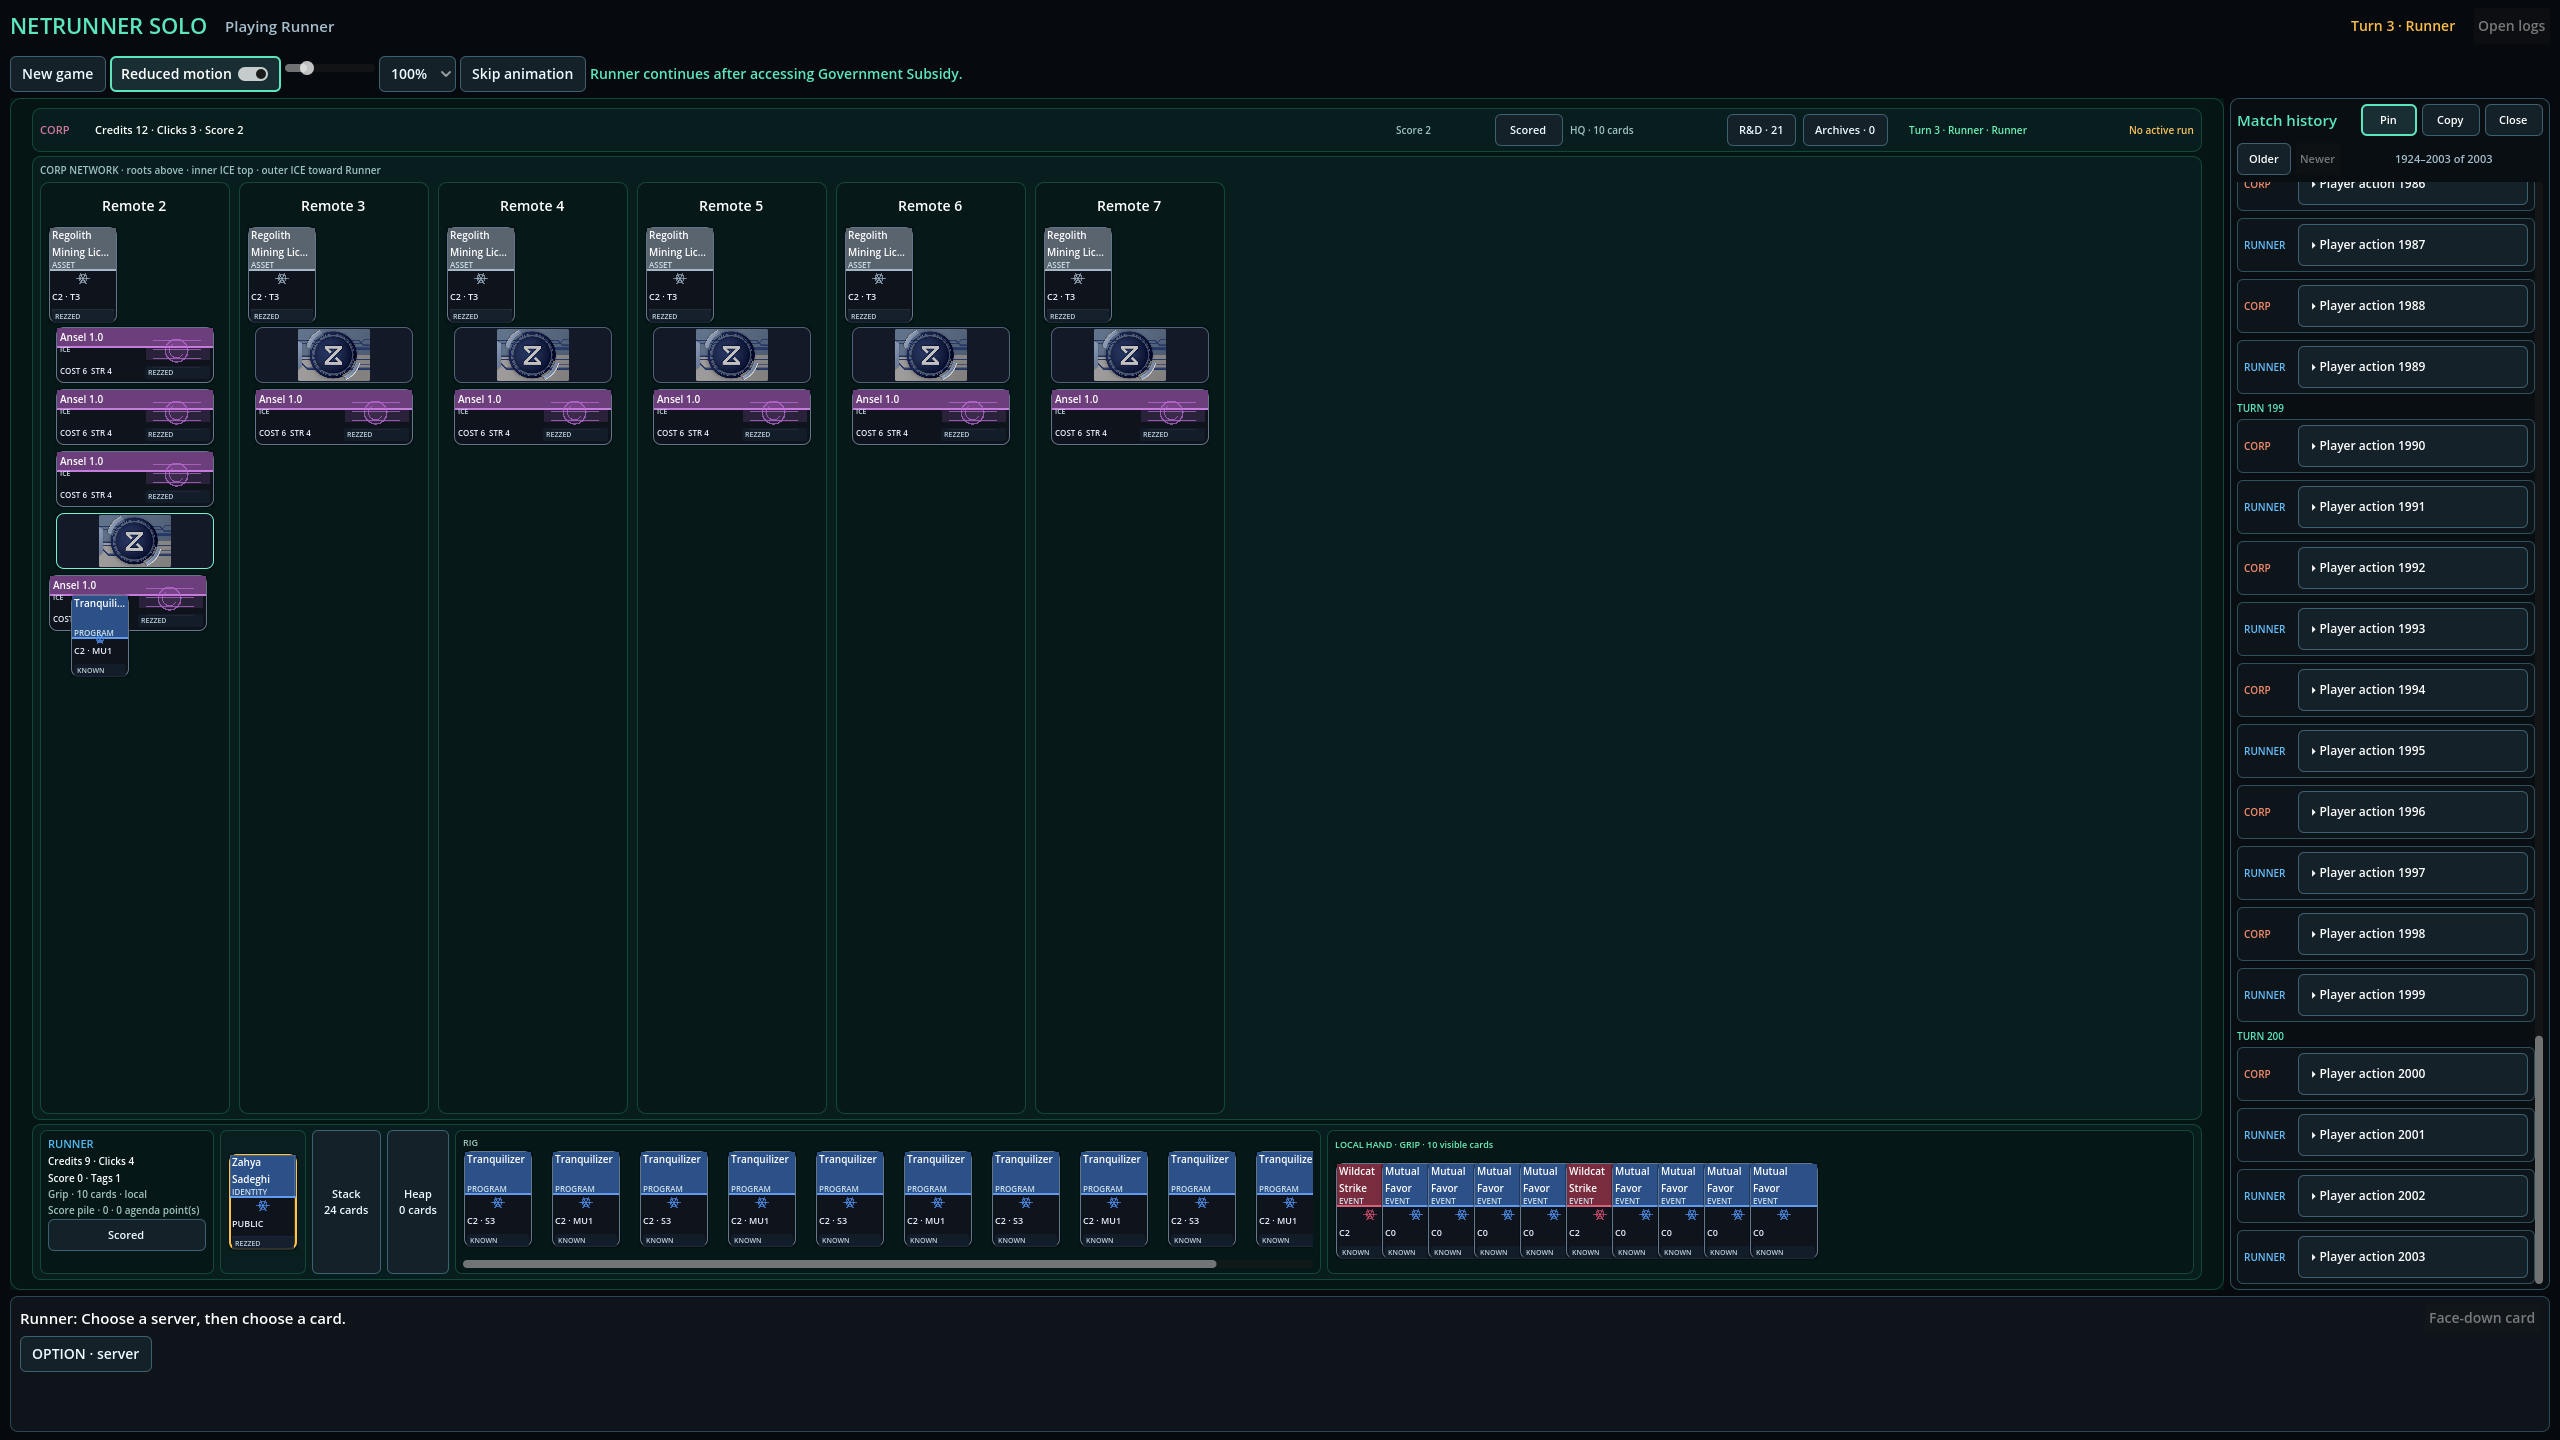
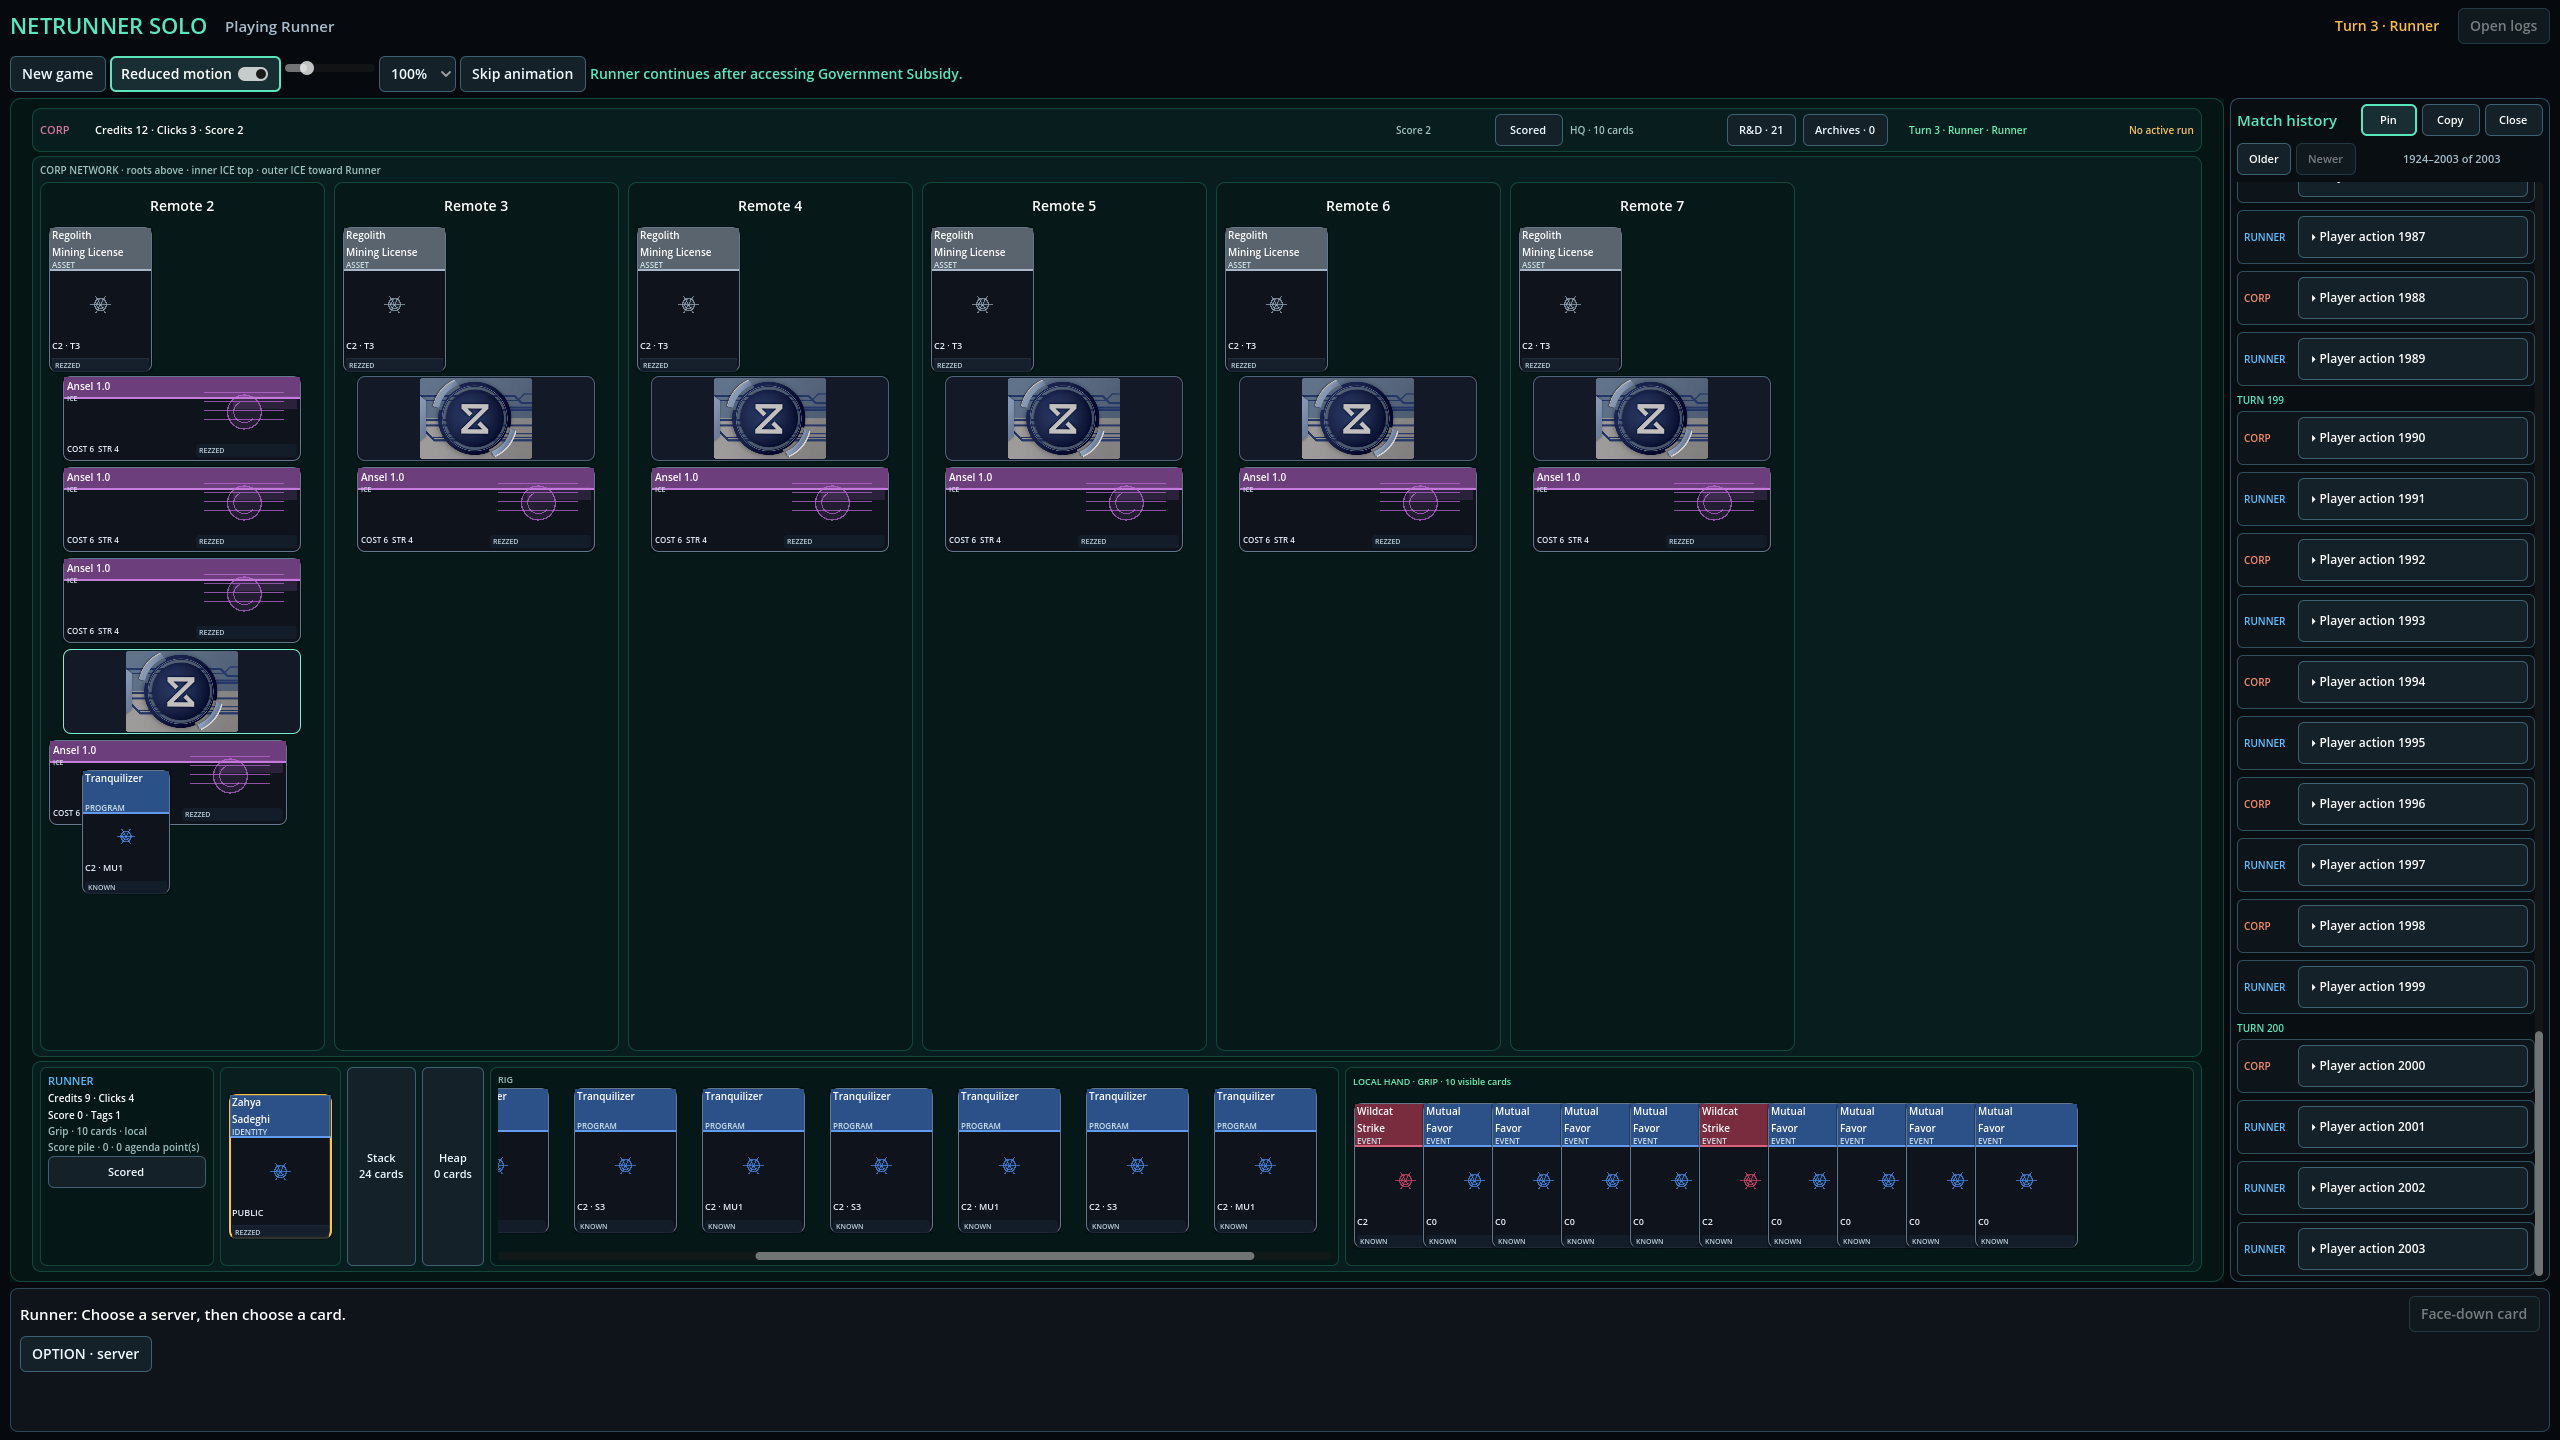
fix: stabilize card table hover size and 1280x720 minimum layout

diff --git a/src/Netrunner.Godot/scenes/Main.CardTableSmoke.cs b/src/Netrunner.Godot/scenes/Main.CardTableSmoke.cs
@@ -116,6 +116,7 @@ public partial class Main
 					throw new InvalidOperationException("R&D access did not finish and clear its panel.");
 				GD.Print("M49_RD_ACCESS PASS seed=47042 visible_card=true named_history=true cleared=true");
 				GD.Print("M49_CONTEXT PASS event_from_hand=true run_from_server=true");
+				await AssertHoverStable("live-1280");
 				_coordinator!.SnapshotPublished -= QueueSnapshot;
 				_coordinator.Dispose();
 				_coordinator = null;
@@ -191,6 +192,7 @@ public partial class Main
 					_matchHistory.SetExpanded(false);
 					await TableFrames(4);
 					AssertCentralServerPresentation(view);
+					await AssertHoverStable($"fixture-{size.X}-{side}");
 					Rect2 viewport = GetViewport().GetVisibleRect();
 					if (!viewport.Encloses(_tableActions.GetGlobalRect())
 						|| !viewport.Encloses(_gameTable.GetGlobalRect()))
@@ -377,6 +379,29 @@ public partial class Main
 	private async Task TableFrames(int count)
 	{
 		for (int i = 0; i < count; i++) await ToSignal(GetTree(), SceneTree.SignalName.ProcessFrame);
+	}
+
+	// The inspect button toggles between the disabled and enabled theme
+	// styleboxes on hover; both must keep the dock and table at a stable size.
+	private async Task AssertHoverStable(string tag)
+	{
+		TableCardControl? known = _gameTable.VisibleCards.Values
+			.FirstOrDefault(c => c.IsInsideTree() && c.Card is { IsKnown: true } && c.Card!.Title.Length >= 10);
+		TableCardControl? hidden = _gameTable.VisibleCards.Values
+			.FirstOrDefault(c => c.IsInsideTree() && c.Card is null);
+		if (known is null || hidden is null) return;
+
+		Vector2 baseTable = _gameTable.Size;
+		known.EmitSignal(Control.SignalName.MouseEntered);
+		await TableFrames(6);
+		Vector2 knownTable = _gameTable.Size;
+		hidden.EmitSignal(Control.SignalName.MouseEntered);
+		await TableFrames(6);
+		Vector2 hiddenTable = _gameTable.Size;
+		known.EmitSignal(Control.SignalName.MouseExited);
+		await TableFrames(6);
+		if (knownTable != baseTable || hiddenTable != baseTable)
+			throw new InvalidOperationException($"Hovering a card resizes the table at {tag}: base={baseTable} known={knownTable} hidden={hiddenTable}.");
 	}
 
 	private void AssertCentralServerPresentation(MatchViewModel view)

diff --git a/src/Netrunner.Godot/scenes/GameTableControl.cs b/src/Netrunner.Godot/scenes/GameTableControl.cs
@@ -329,7 +329,7 @@ public partial class GameTableControl : Control
 
 	private void BuildServerField()
 	{
-		PanelContainer surface = MakeSurfacePanel(new Vector2(0, 300), expandVertical: true);
+		PanelContainer surface = MakeSurfacePanel(new Vector2(0, 150), expandVertical: true);
 		_tableLayout.AddChild(surface);
 		VBoxContainer content = MakeVBox(4);
 		surface.AddChild(content);
@@ -344,10 +344,12 @@ public partial class GameTableControl : Control
 		label.SizeFlagsHorizontal = SizeFlags.ExpandFill;
 		heading.AddChild(label);
 
+		// The 1.5x card sizes outgrow short viewports, so the lane row keeps a
+		// small fixed minimum and owns its vertical overflow locally.
 		_serverScroll = new ScrollContainer
 		{
 			HorizontalScrollMode = ScrollContainer.ScrollMode.Auto,
-			VerticalScrollMode = ScrollContainer.ScrollMode.Disabled,
+			VerticalScrollMode = ScrollContainer.ScrollMode.Auto,
 			FollowFocus = true,
 			SizeFlagsHorizontal = SizeFlags.ExpandFill,
 			SizeFlagsVertical = SizeFlags.ExpandFill,
@@ -364,7 +366,7 @@ public partial class GameTableControl : Control
 
 	private void BuildRunnerField()
 	{
-		PanelContainer surface = MakeSurfacePanel(new Vector2(0, 225), expandVertical: false);
+		PanelContainer surface = MakeSurfacePanel(new Vector2(0, 200), expandVertical: false);
 		_tableLayout.AddChild(surface);
 		HBoxContainer field = new()
 		{
